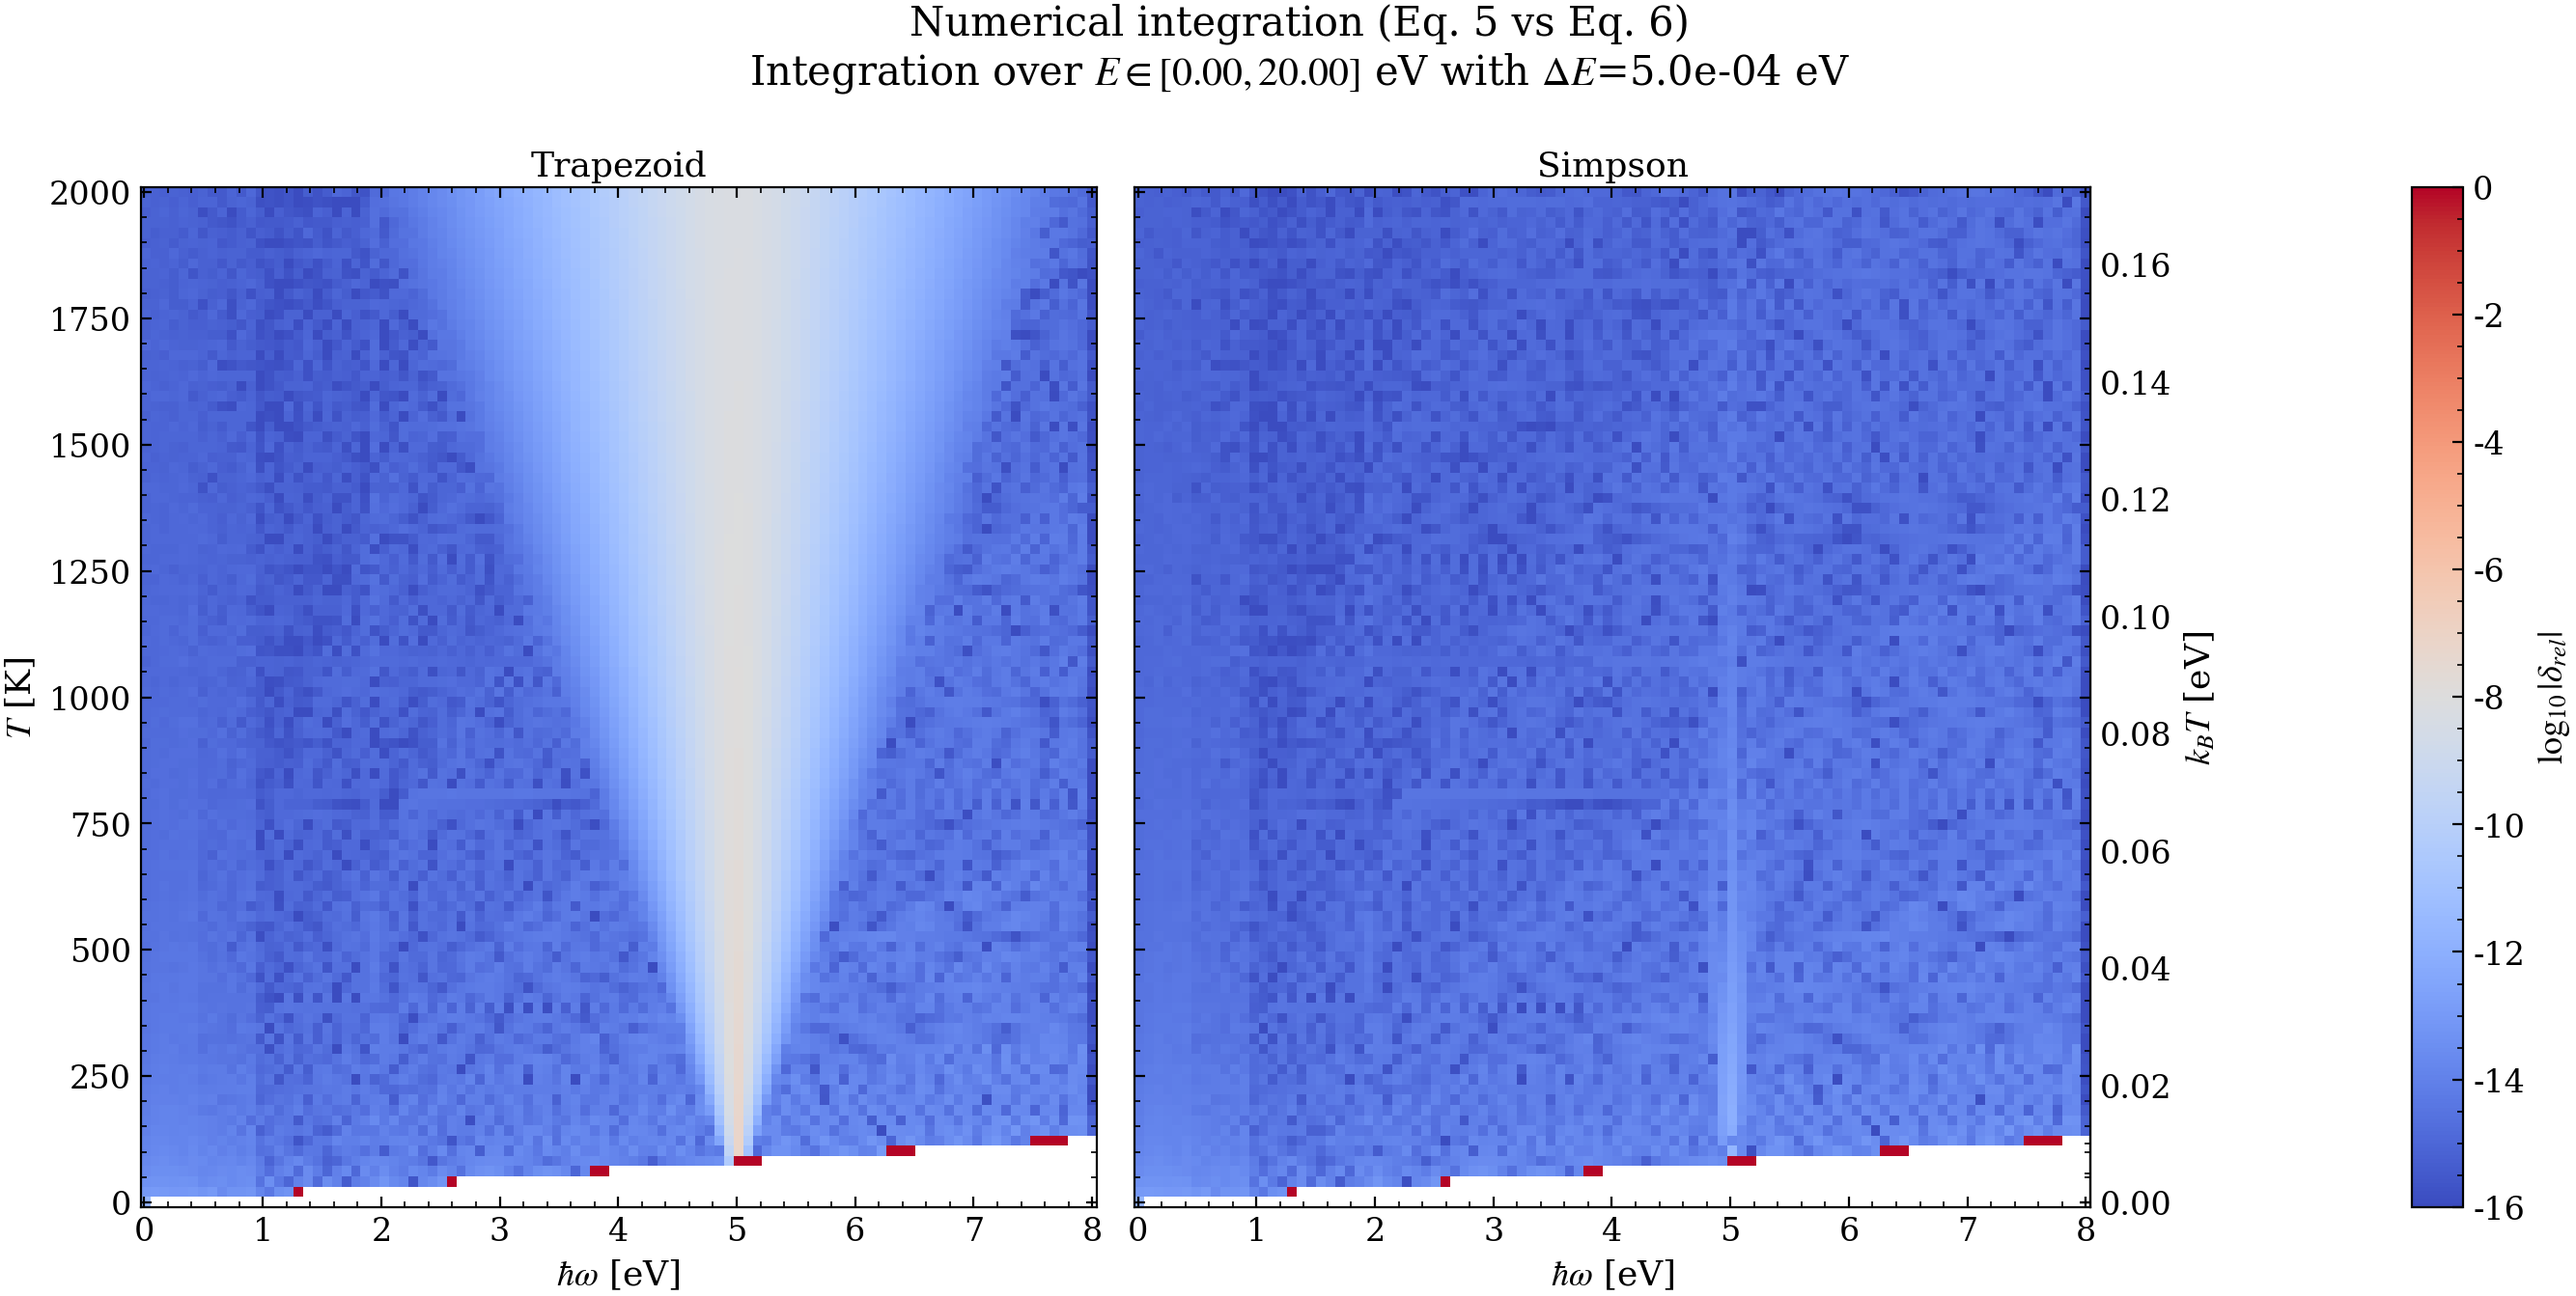
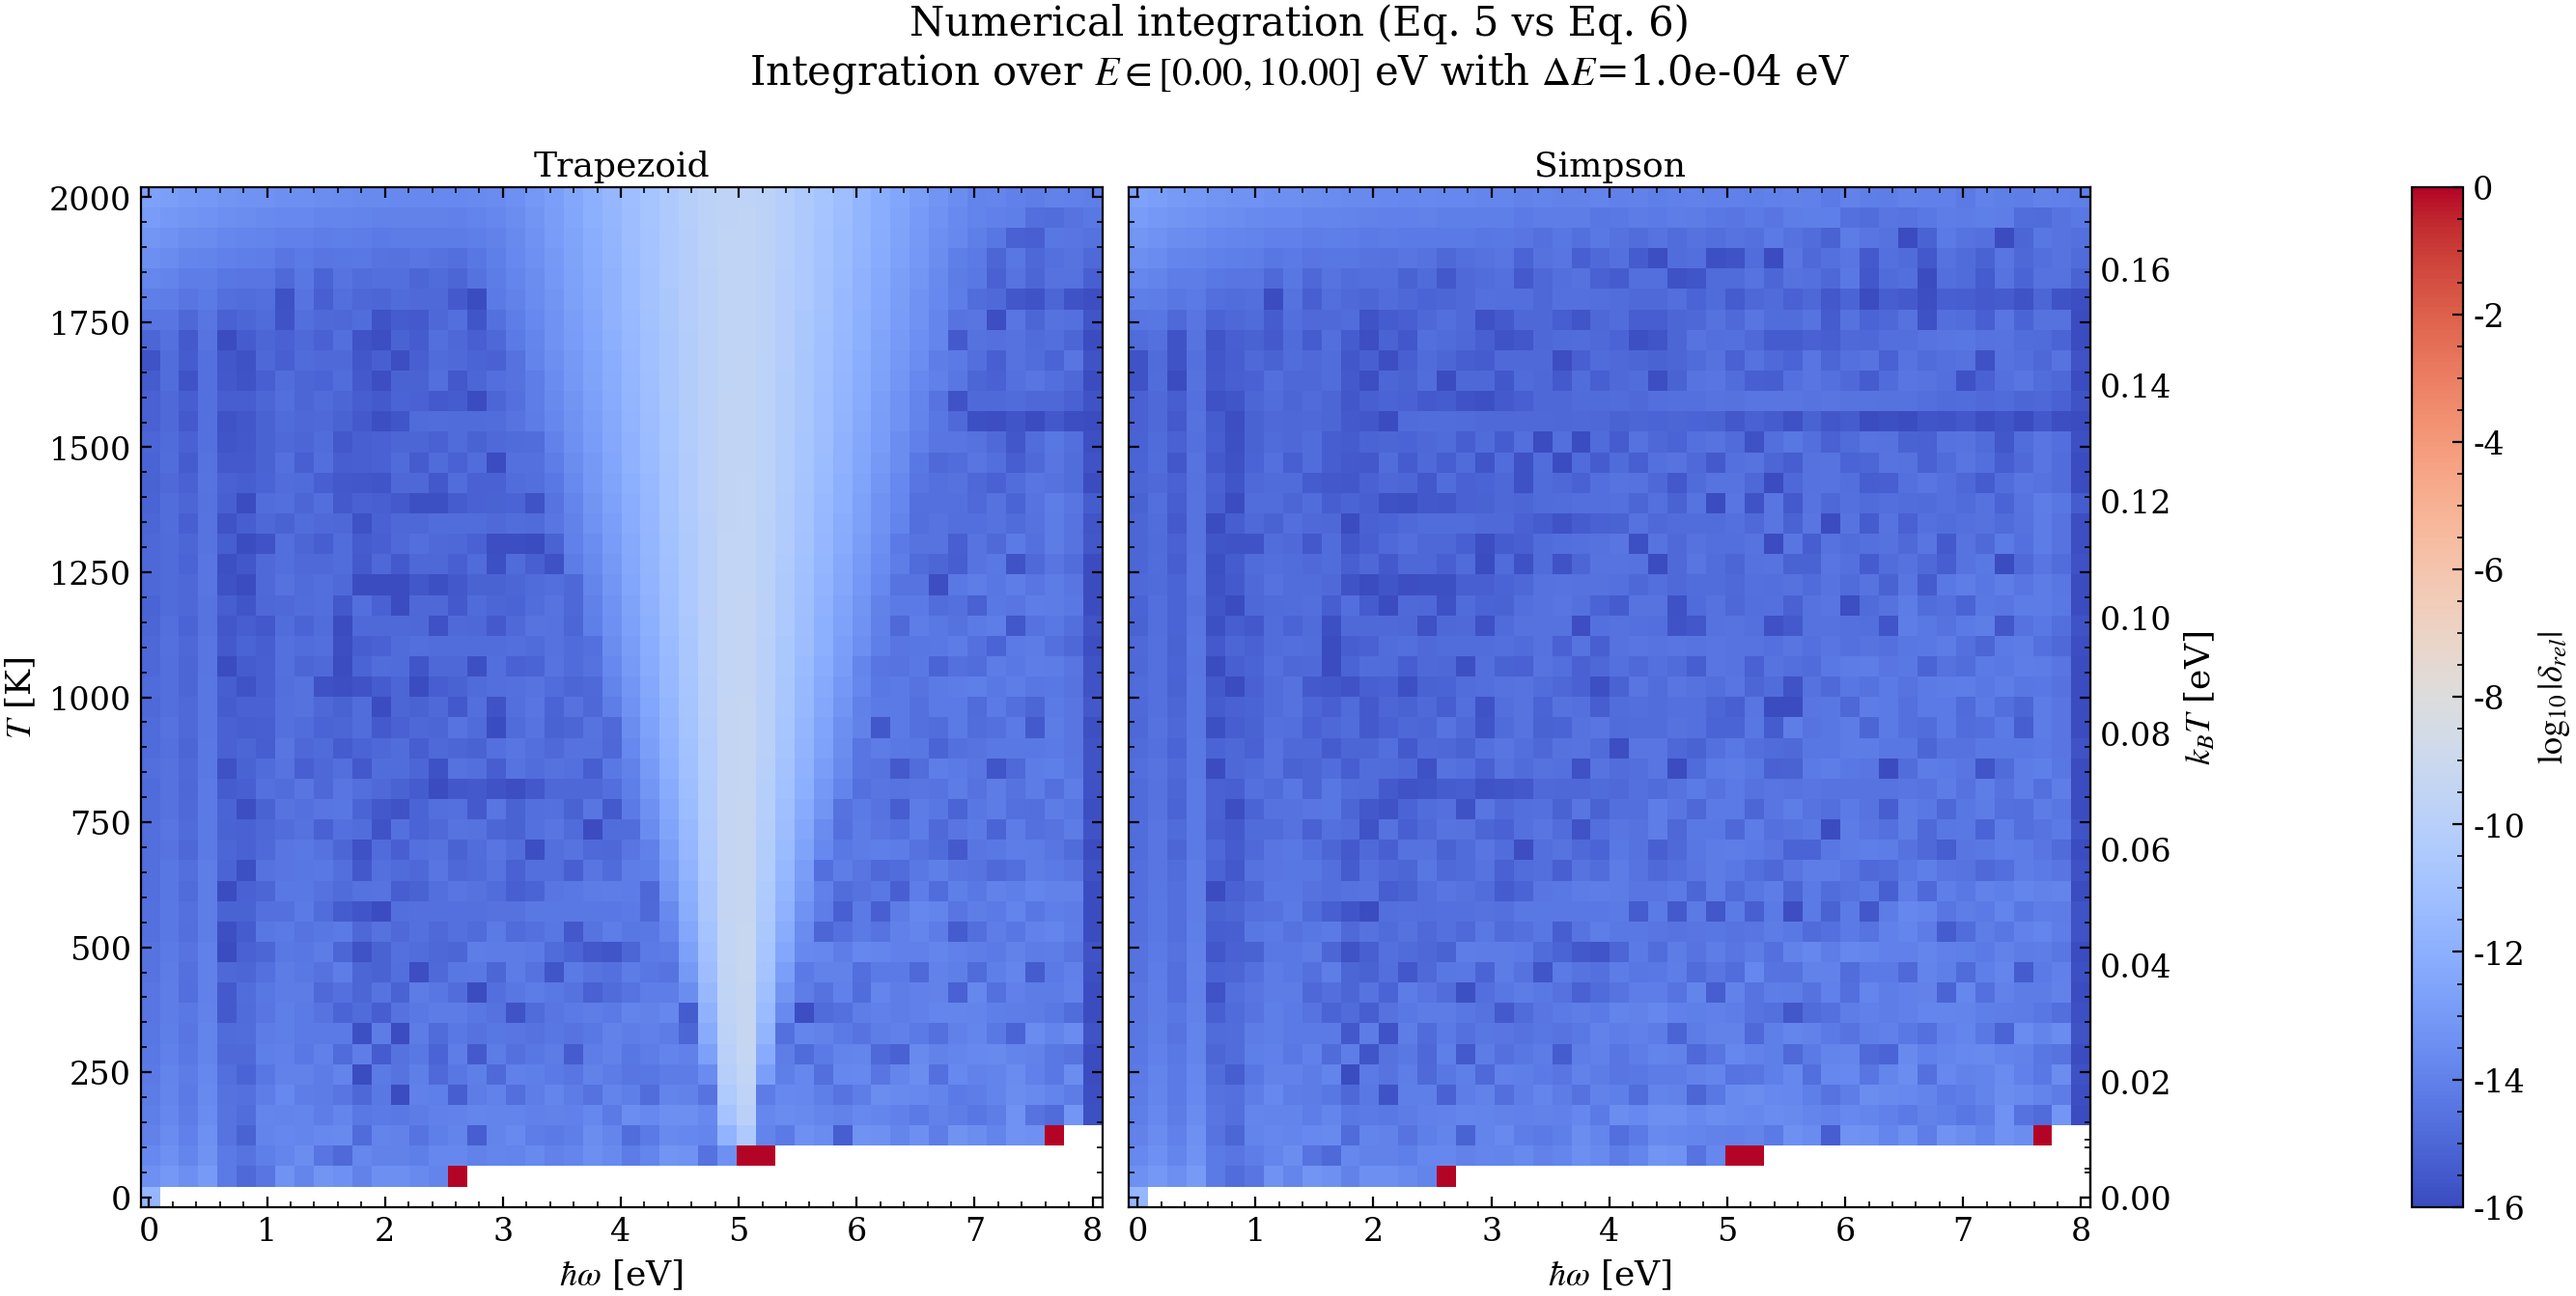
bus - microscopic theory

diff --git a/docs/notes/Appendices/A0 - Derivation of the General Emission Integral.md b/docs/notes/Appendices/A0 - Derivation of the General Emission Integral.md
@@ -1,3 +1,22 @@
+# Radiative Transitions in Solids
+Consider electrons in a solid. It's Hamiltonian consists of the kinetic energy term and the lattice term which embodies the periodic nature of the material. In the presence of an E&M field the hamiltonian is
+$$
+\begin{align}
+\hat{H} &= \frac{\big[\hat{\mathbf{p}}+e\mathbf{A}(\hat{\mathbf{r}},t)\big]^{2}}{2m_{e}} + V_{\text{lattice}}(\hat{\mathbf{r}}) \\
+&\approx  \underbrace{ \frac{\hat{\mathbf{p}}\cdot\hat{\mathbf{p}}}{2m_{e}} + V_{\text{lattice}}(\hat{\mathbf{r}}) }_{ \hat{H}_{0} } + \underbrace{ \frac{e}{2m_{e}}\Big[\mathbf{A}(\hat{\mathbf{r}},t)\cdot \hat{\mathbf{p}}  +\hat{\mathbf{p}}\cdot\mathbf{A}(\hat{\mathbf{r}},t)\Big] }_{ \hat{H}_{\text{int}} }
+\end{align}
+$$
+where the $|\mathbf{A}(\hat{\mathbf{r}},t)|^{2}$ term has been neglected 
+- [ ] ==nonlinear effects for strong laser pumps \ pulsed dynamics? Well, for pulsed radiation $\mathbf{A}(\hat{\mathbf{r}},t)$ would be different).==
+- [ ] culoumb gague - always have this freedom?
+
+Under the Coulomb gauge $\nabla\cdot\mathbf{A}(\hat{\mathbf{r}},t)=0$ the interaction term can be written as follows
+$$
+\hat{H}_{\text{int}} = \frac{e}{2m_{e}}\mathbf{A}(\hat{\mathbf{r}},t)\cdot\hat{\mathbf{p}}
+$$
+
+
+# From a Single Transition to the Continuum
 Consider an electronic transition between an initial state $\ket{\mathbf{k}_{1}, \alpha}$ and a final state $\ket{\mathbf{k}_{2}, \beta}$, mediated by an energy transfer $\hbar \omega$. The subscripts $\alpha$ and $\beta$represent specific energy bands (valence or conduction), allowing transitions between different branches of the dispersion relation. According to Fermi's Golden Rule, the microscopic transition rate is
 
 $$
